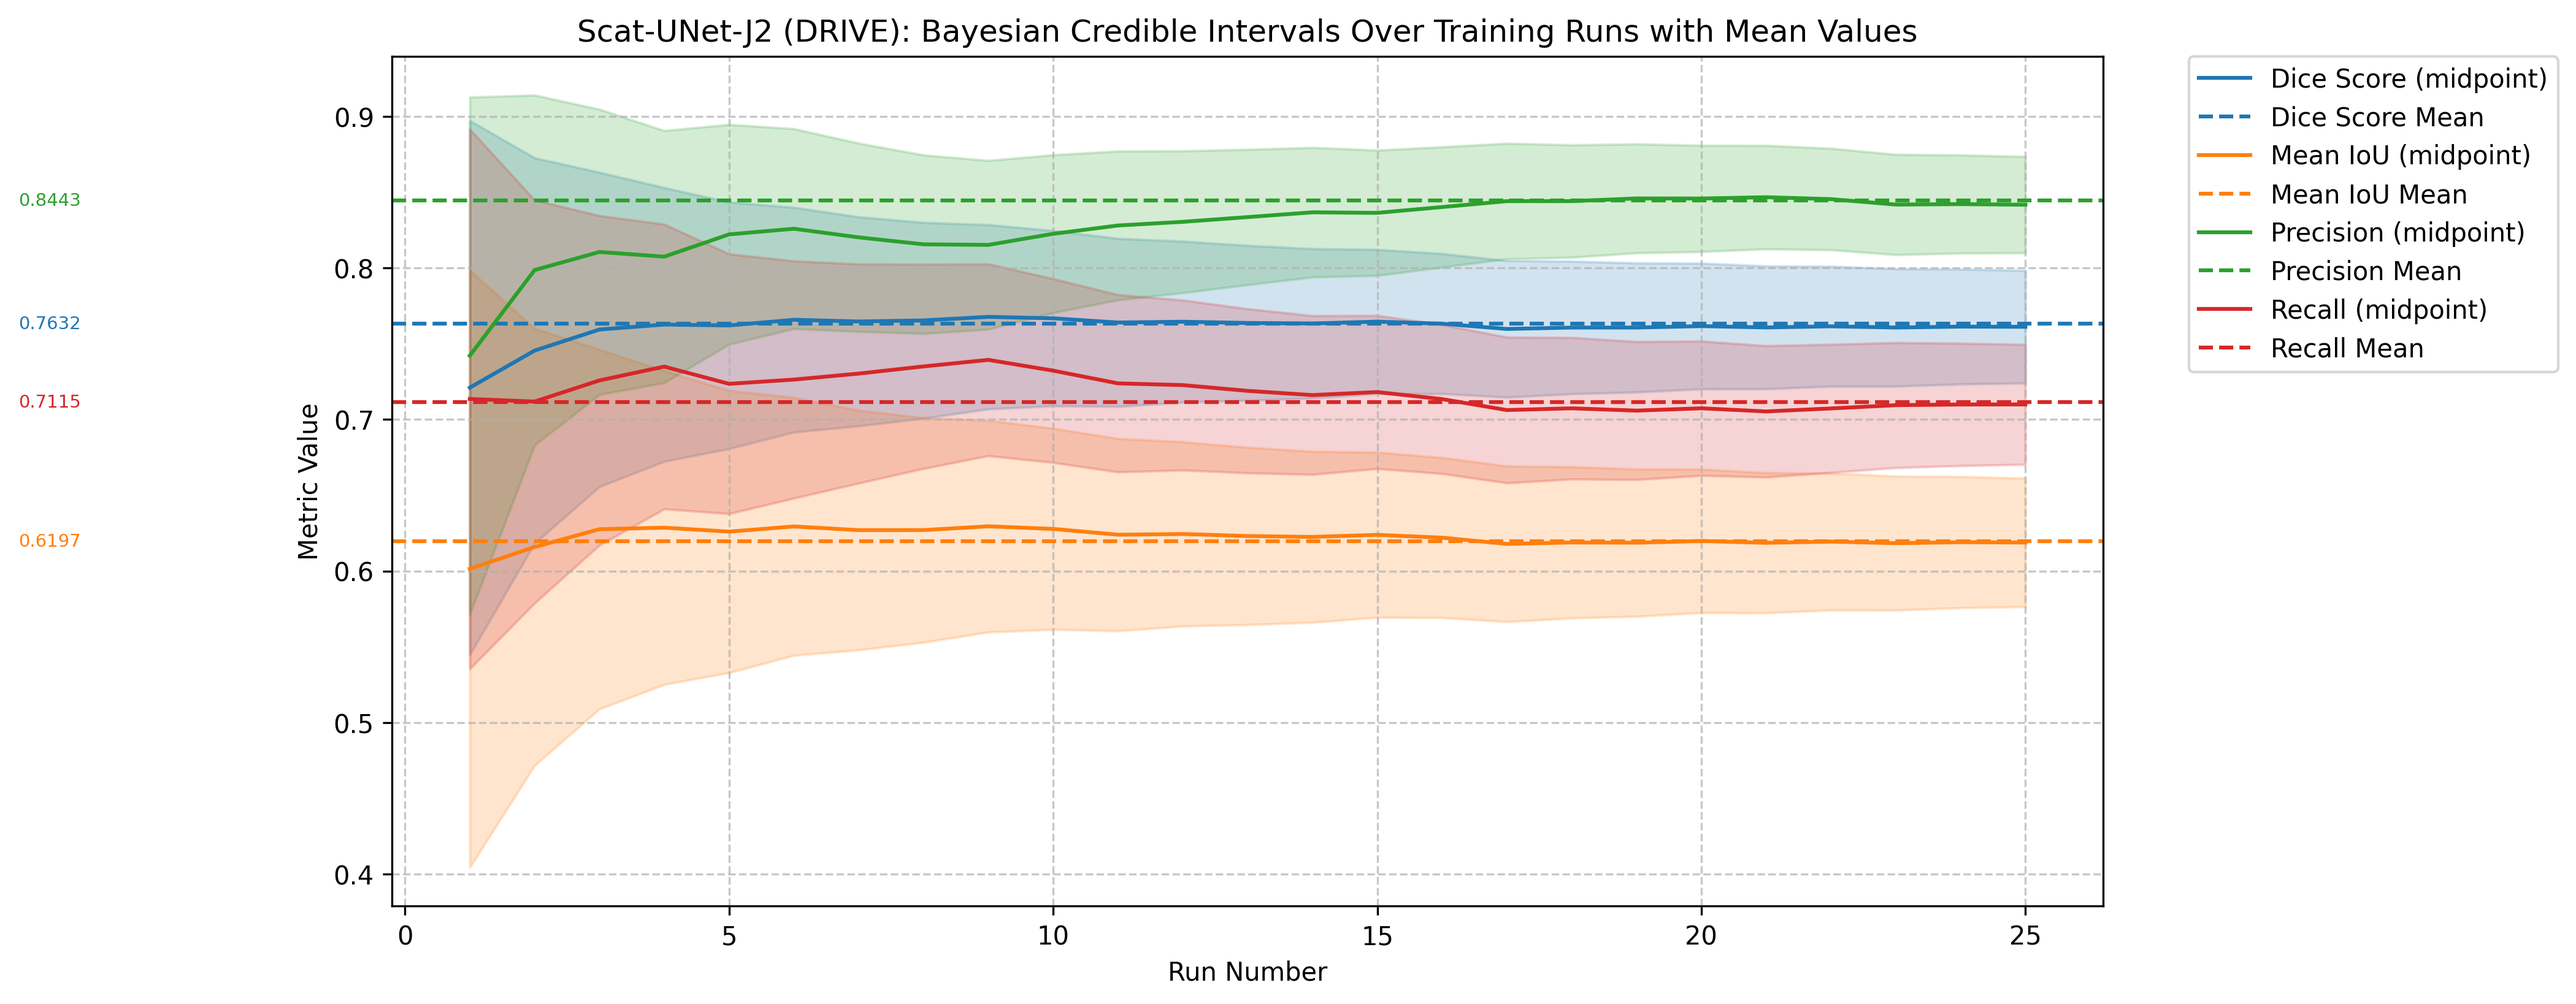
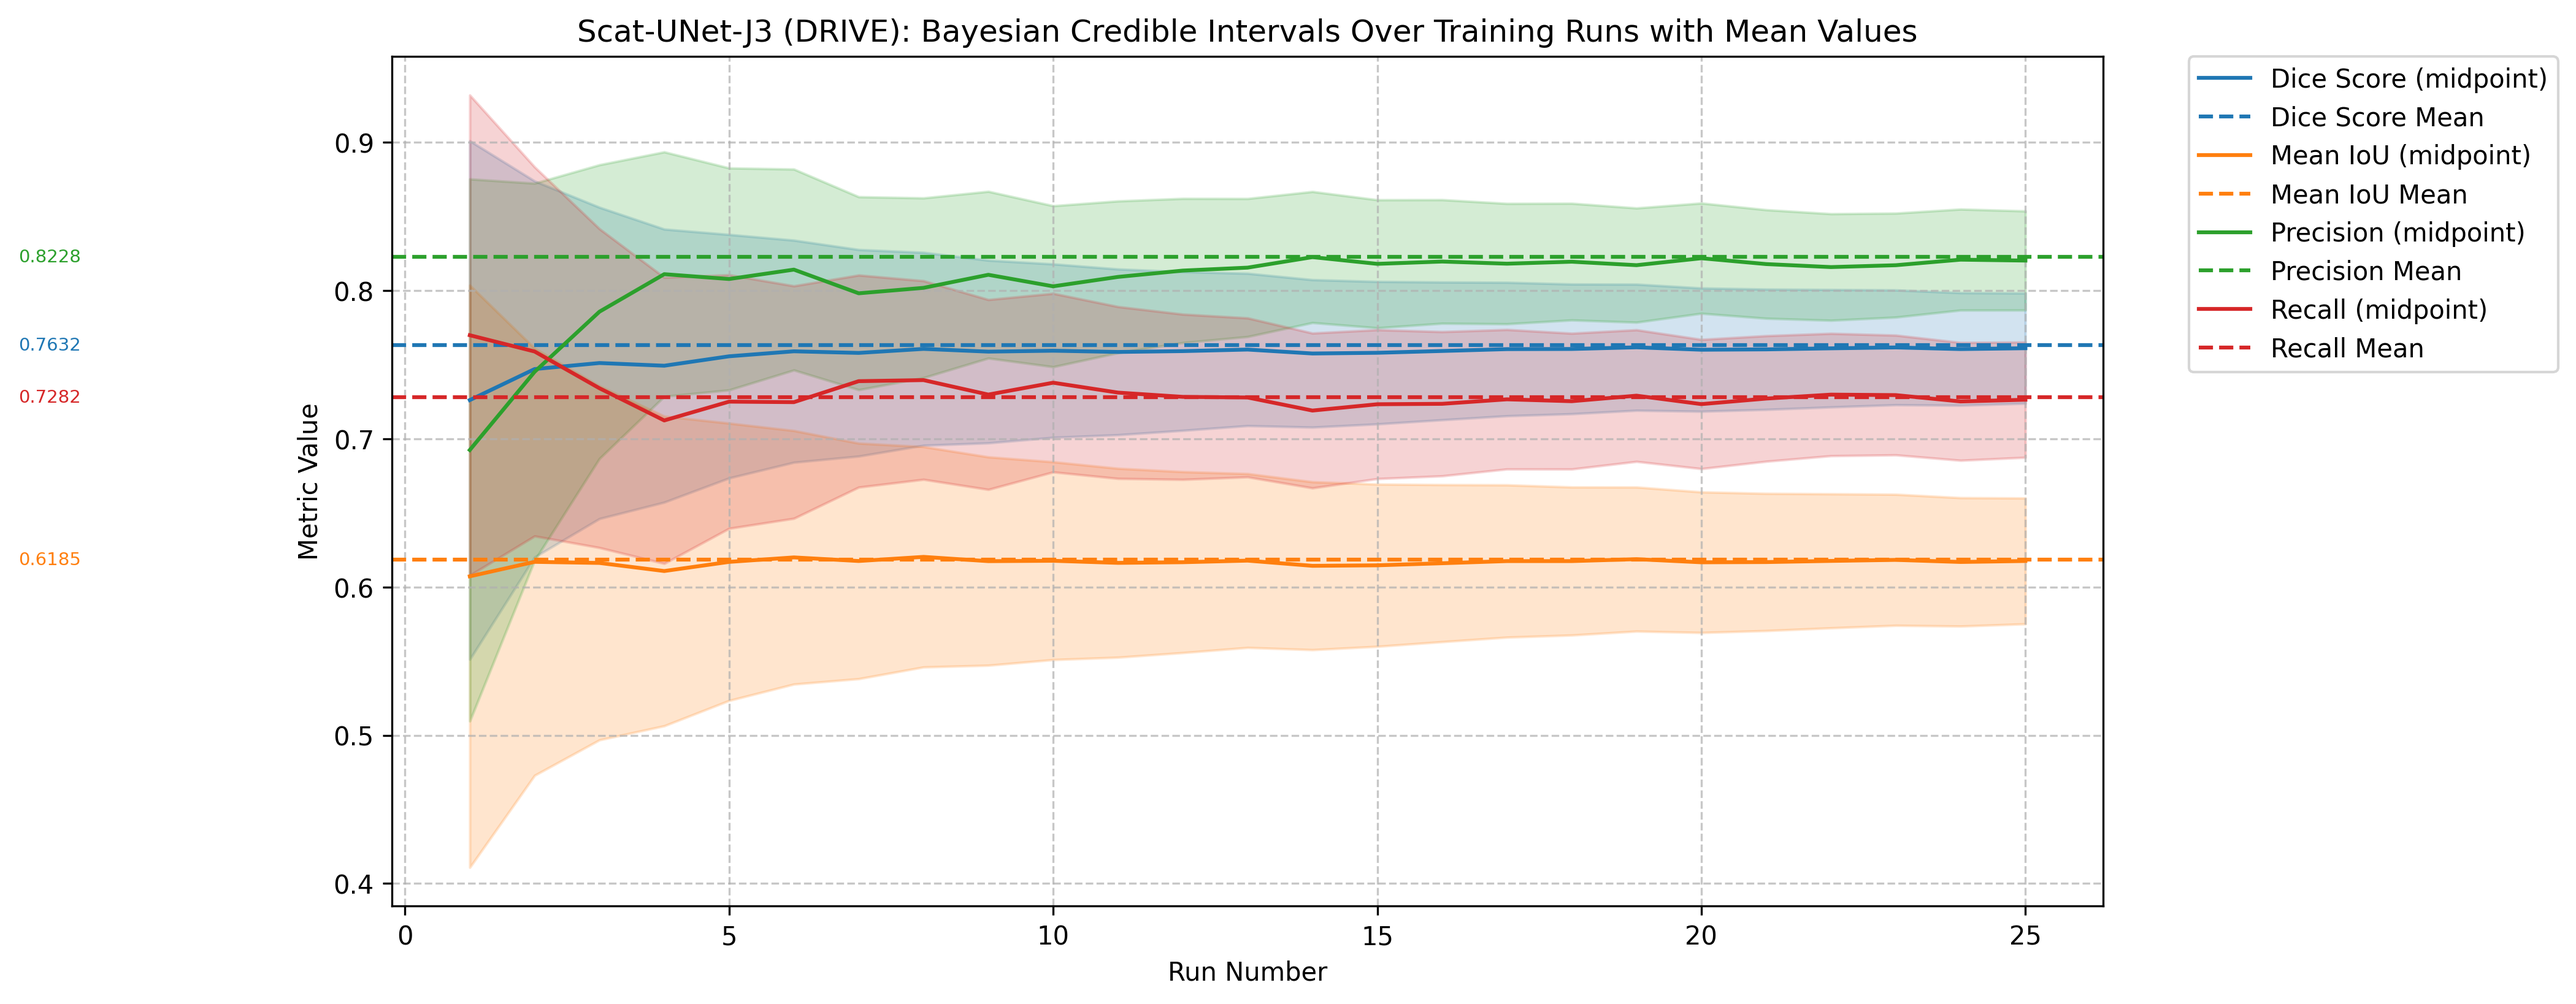
J3 DRIVE results

diff --git a/analyse_results.py b/analyse_results.py
@@ -4,7 +4,7 @@ import matplotlib.pyplot as plt
 import seaborn as sns
 
 # File path
-file_path = "DRIVE)training_results_J2.txt"
+file_path = "DRIVE_J3_training_results.txt"
 
 # Updated regex pattern to extract the two dictionaries
 dict_pattern = re.compile(r"Run \d+: (\{.*?\}), Credible Intervals: (\{.*?\})")
@@ -66,7 +66,7 @@ def plot_boxplots(metrics, filename="boxplot.png"):
     sns.boxplot(data=[metrics[key] for key in metrics.keys()])
     plt.xticks(ticks=range(len(metrics.keys())), labels=list(metrics.keys()), rotation=20)
     plt.ylabel("Metric Values")
-    plt.title("Scat-UNet-J2 (DRIVE): Boxplots of Metrics")
+    plt.title("Scat-UNet-J3 (DRIVE): Boxplots of Metrics")
     plt.grid(axis="y", linestyle="--", alpha=0.7)
     # Save the figure
     plt.savefig(filename, bbox_inches="tight", dpi=300)
@@ -121,7 +121,7 @@ def plot_credible_intervals(runs, filename="credible_intervals.png"):
 
     plt.xlabel("Run Number")
     plt.ylabel("Metric Value")
-    plt.title("Scat-UNet-J2 (DRIVE): Bayesian Credible Intervals Over Training Runs with Mean Values")
+    plt.title("Scat-UNet-J3 (DRIVE): Bayesian Credible Intervals Over Training Runs with Mean Values")
     plt.legend(loc='upper left', bbox_to_anchor=(1.05, 1), borderaxespad=0.)
     plt.grid(True, linestyle="--", alpha=0.7)
     plt.savefig(filename, bbox_inches="tight", dpi=300)
